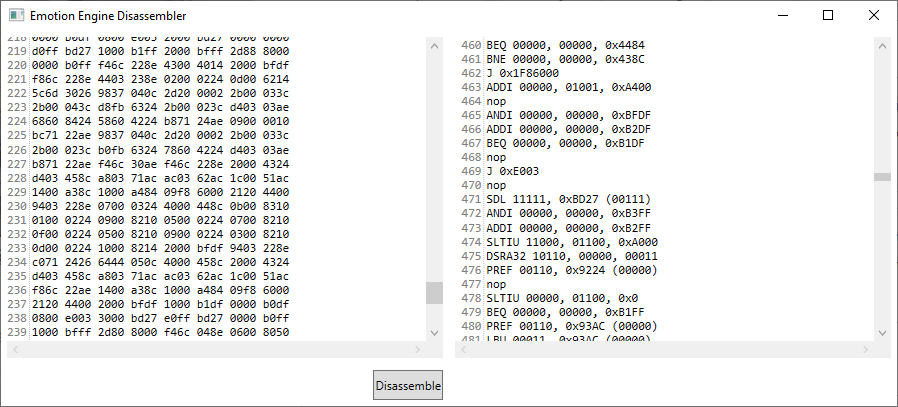
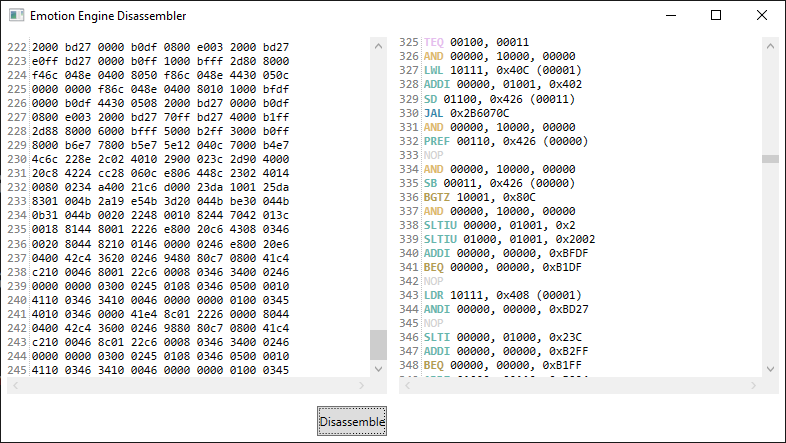
Syntax highlighting for the assembly

diff --git a/PS2Disassembler/MainWindow.xaml b/PS2Disassembler/MainWindow.xaml
@@ -18,7 +18,7 @@
             <ColumnDefinition Width="1*"/>
         </Grid.ColumnDefinitions>
         <avalonedit:TextEditor Document="{Binding Input}" Margin="6" ShowLineNumbers="True" FontFamily="Consolas"/>
-        <avalonedit:TextEditor Document="{Binding Output}" Grid.Column="1" Grid.Row="0" Margin="6" ShowLineNumbers="True" FontFamily="Consolas"/>
+        <avalonedit:TextEditor x:Name="AssemblyEditor" Document="{Binding Output}" Grid.Column="1" Grid.Row="0" Margin="6" ShowLineNumbers="True" FontFamily="Consolas"/>
         <Button Content="Disassemble" Command="{Binding DisassembleCommand}" HorizontalAlignment="Right" Grid.Row="1" Grid.Column="0" Margin="6"/>
     </Grid>
 </Window>

diff --git a/PS2Disassembler/MainWindow.xaml.cs b/PS2Disassembler/MainWindow.xaml.cs
@@ -1,5 +1,9 @@
-using PS2Disassembler.ViewModel;
+using ICSharpCode.AvalonEdit.Highlighting;
+using ICSharpCode.AvalonEdit.Highlighting.Xshd;
+using PS2Disassembler.ViewModel;
+using System;
 using System.Windows;
+using System.Xml;
 
 namespace PS2Disassembler
 {
@@ -14,8 +18,23 @@ namespace PS2Disassembler
         {
             InitializeComponent();
 
+            var assembly = this.GetType().Assembly;
+
+            using (var stream = assembly.GetManifestResourceStream(assembly.GetName().Name + ".MIPSSyntax.xshd"))
+            {
+                using (var reader = new XmlTextReader(stream))
+                {
+                    AssemblyEditor.SyntaxHighlighting = HighlightingLoader.Load(reader, HighlightingManager.Instance);
+                }
+            }
+
             _vm = new MainViewVM();
             this.DataContext = _vm;
+        }
+
+        protected override void OnInitialized(EventArgs e)
+        {
+            base.OnInitialized(e);
         }
     }
 }

diff --git a/PS2Disassembler.Core/Instructions/Nop.cs b/PS2Disassembler.Core/Instructions/Nop.cs
@@ -9,7 +9,7 @@
 
         public override string ToString()
         {
-            return "nop";
+            return "NOP";
         }
     }
 }
